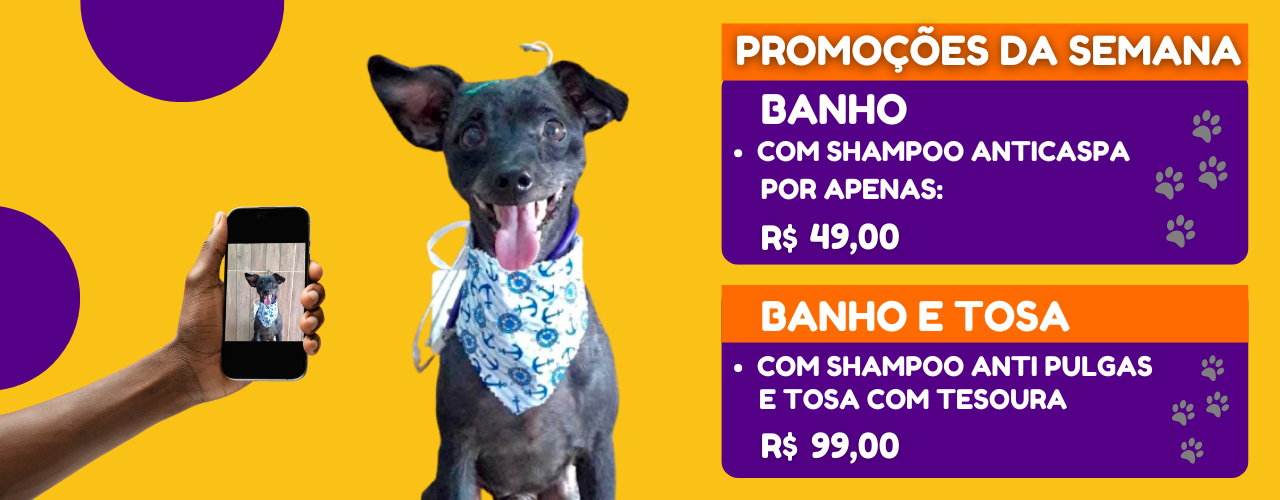
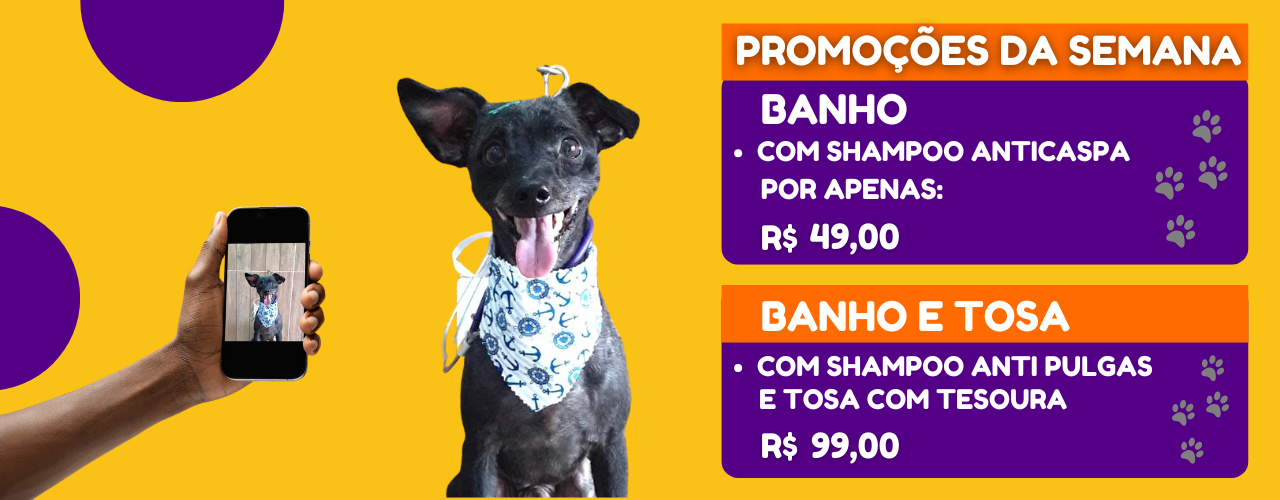
update

Changed region(s): [[0.2812, 0.06, 0.5, 1.0]]

diff --git a/media query-principal.css b/media query-principal.css
@@ -63,6 +63,7 @@
         font-size: 13px;
         width: 98.9vw;
         border-radius: 0px 0px;
+        transition: 3s;
     }
 
 
@@ -101,9 +102,10 @@
 div#cabecasite {
     background-image: url(img/dog.jpg);
     background-attachment: fixed;
-    background-size: contain;
-    background-position: top top;
-    
+    background-size: 700px;
+    background-position: right;
+    background-repeat: no-repeat;
+  
     
     height: 39vh;
     width: 100%;

diff --git a/style.css b/style.css
@@ -183,6 +183,7 @@ a:hover {
 }
 div.input {
     margin-top: -56px;
+    transition: 2s;
 }
 
 #loading {